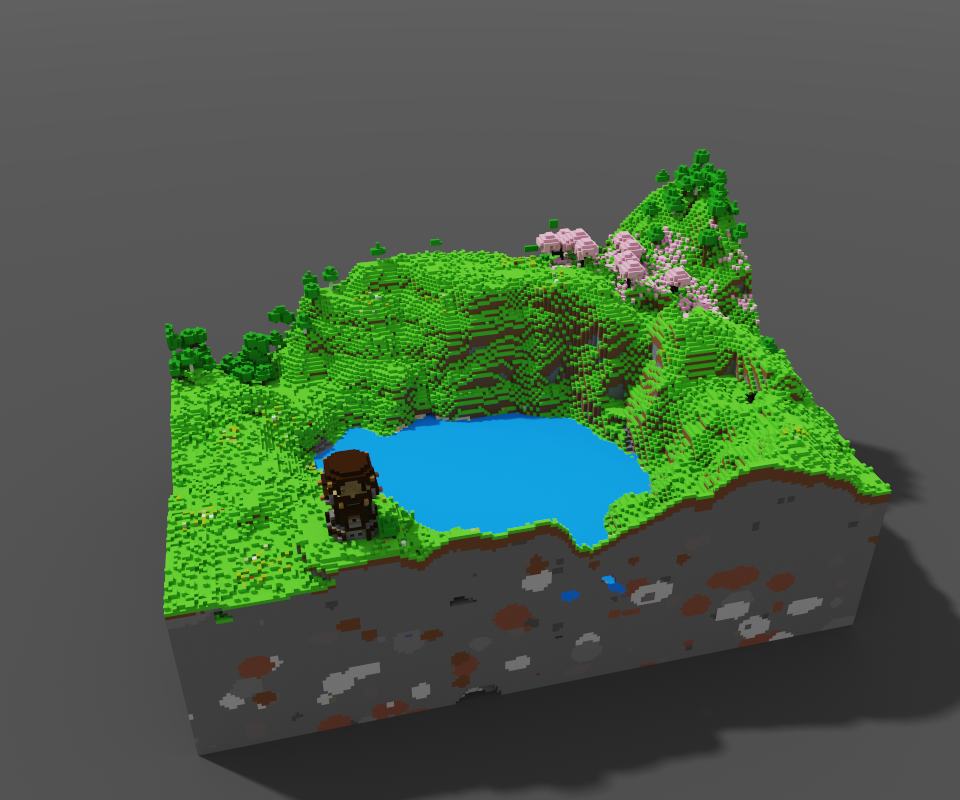
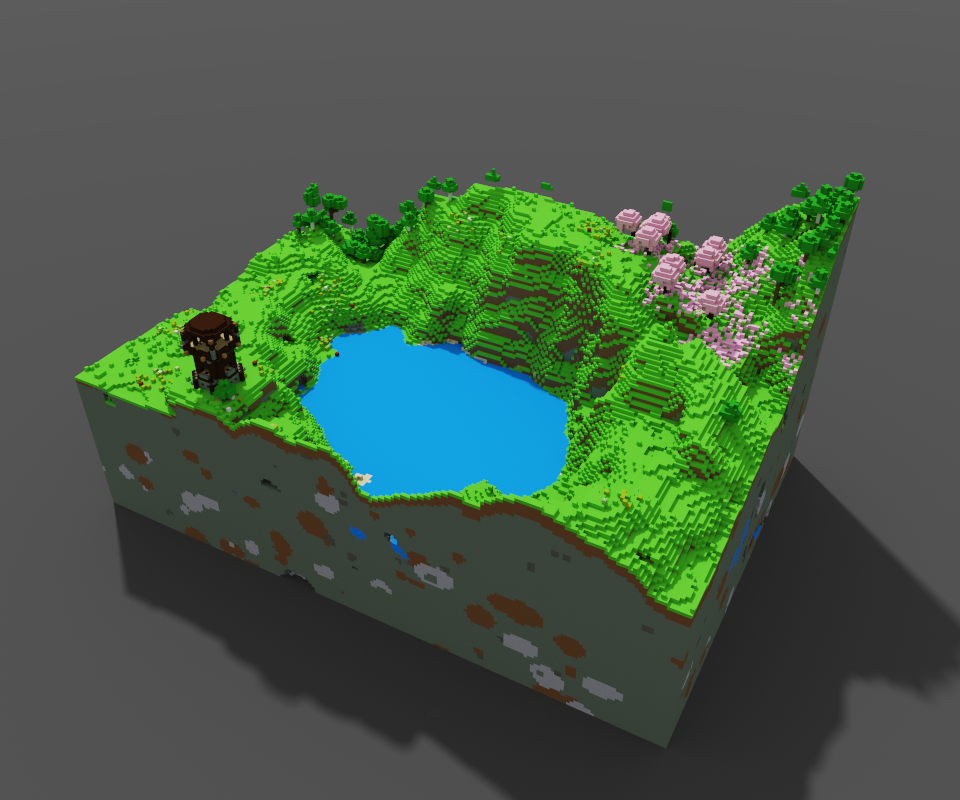
Only render about a fifth of the grass

diff --git a/schem2vox.py b/schem2vox.py
@@ -3,6 +3,7 @@ from nbt import nbt
 import json
 import sys
 import argparse
+import random
 
 parser = argparse.ArgumentParser(prog="schem2vox.py")
 parser.add_argument("-c", "--compression", type=int, choices=range(0, 11))
@@ -96,6 +97,9 @@ for y in range(min(256, height)):
             name = idxMap[block]
             if name == "minecraft:air" or name == "minecraft:cave_air" or name == "minecraft:void_air":
                 continue
+            if name == "minecraft:short_grass" or name == "minecraft:tall_grass":
+                if random.random() > 0.2:
+                    continue
             idx = paletteMap[name]
             indexes.append(bytearray((min(256, width) - x - 1, z, y, idx)))
 print(f"{len(indexes)} voxels in shape")
